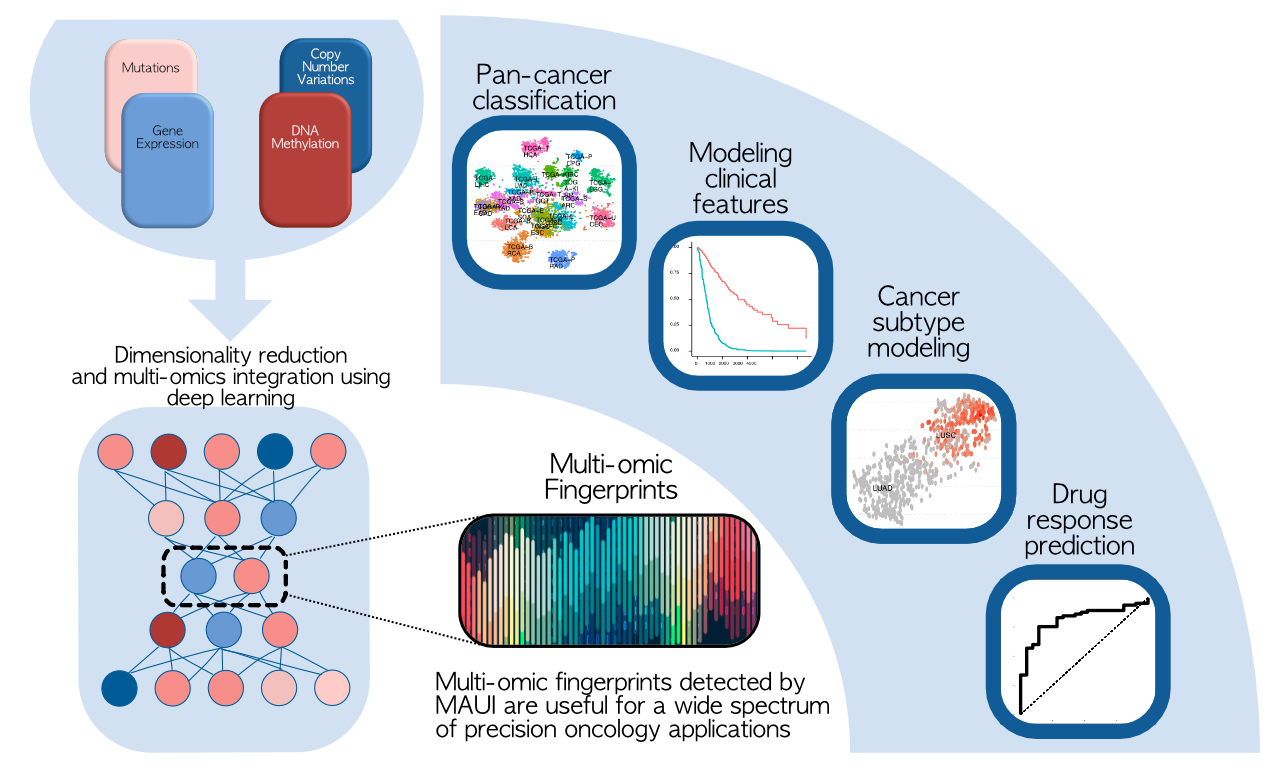
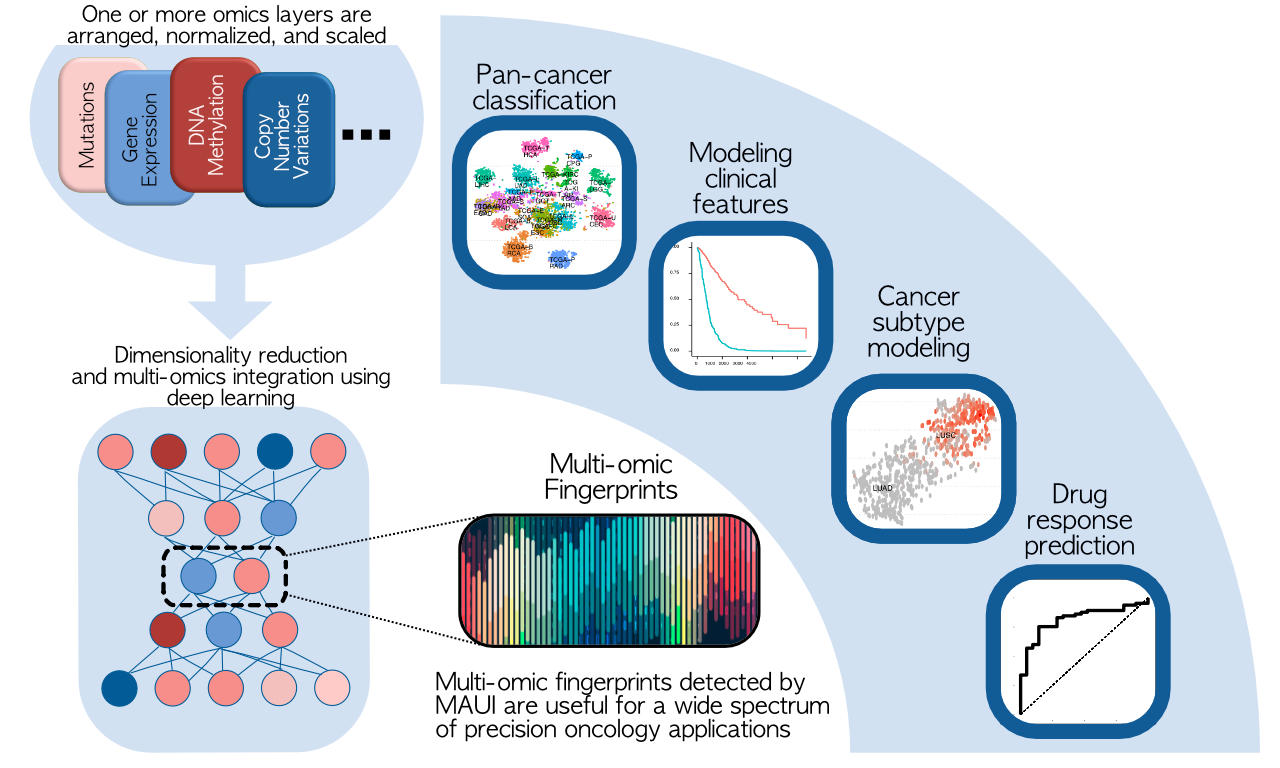
update README and graphical abstract

Changed region(s): [[0.0, 0.0, 0.3438, 0.3438]]

diff --git a/README.md b/README.md
@@ -1,9 +1,13 @@
 
 # Introduction
 
-The purpose of this repository is to provide the scripts that are used to produce the figures for the manuscript by Uyar et al, 2021.
-
-## "Multi-omics and deep learning provide a multifaceted view of cancer". 
+The purpose of this repository is to provide the scripts that are used to produce the figures for the manuscript:
+```
+Multi-omics and deep learning provide a multifaceted view of cancer
+Bora Uyar¹, Jonathan Ronen¹, Vedran Franke¹, Gaetano Garguilo², Altuna Akalin¹
+1 Bioinformatics and Omics Data Science Platform, Max Delbrück Center (MDC) for Molecular Medicine, The Berlin Institute for Medical Systems Biology, Hannoversche Str. 28, 10115 Berlin, Germany
+2 Molecular Oncology, Max Delbrück Center (MDC) for Molecular Medicine, Robert-Rössle-Stsse 10, 13125 Berlin, Germany
+```
 Cancer is a complex disease with a large financial and healthcare burden on society. One hallmark of the disease is the uncontrolled growth and proliferation of malignant cells. Unlike Mendelian diseases which may be explained by a few genomic loci, a deeper molecular and mechanistic understanding of the development of cancer is needed. Such an endeavor requires the integration of tens of thousands of molecular features across multiple layers of information encoded in the cells. In practical terms, this implies integration of multi omics information from the genome, transcriptome, epigenome, proteome, metabolome, and even micro-environmental factors such as the microbiome. Finding mechanistic insights and biomarkers in such a high dimensional space is a challenging task. Therefore, efficient machine learning techniques are needed to reduce the dimensionality of the data while simultaneously discovering complex but meaningful biomarkers. These markers then can lead to testable hypotheses in research and clinical applications. In this study, we applied advanced deep learning methods to uncover multi-omic fingerprints that are associated with a wide range of clinical and molecular features of tumor samples. Using these fingerprints, we can accurately classify different cancer types, and their subtypes. Non-linear multi-omic fingerprints can uncover clinical features associated with patient survival and response to treatment, ranging from chemotherapy to immunotherapy. In addition, multi-omic fingerprints may be deconvoluted into a meaningful subset of genes and genomic alterations to support clinically relevant decisions. 
 
 <p align="center">
